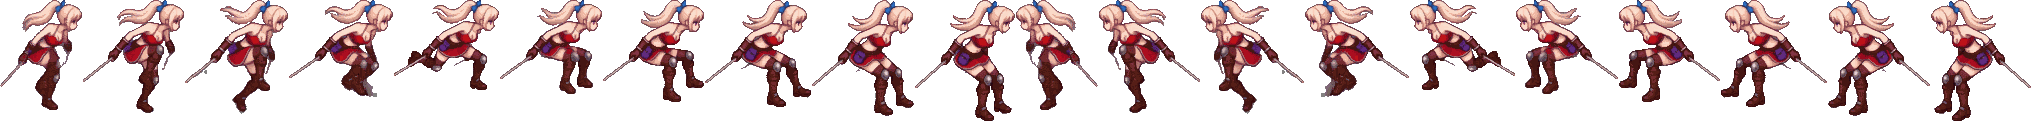
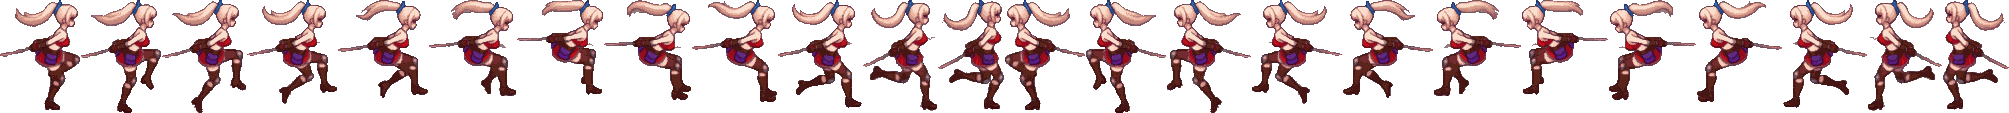
test128: Linette running jump v2 from the hero's own rjump skeleton (run arms kept, higher arc)
Claude-Session: https://claude.ai/code/session_016rTuiBLHccbMGyHtTkdTn7

diff --git a/test128/linette.html b/test128/linette.html
@@ -116,7 +116,7 @@ function draw(){
   const camX=Math.round(P.x-VW/2)+shx,camY=Math.round(P.y-VH*0.55)+shy;
   for(let y=Math.floor(camY/256)*256;y<camY+VH;y+=256)for(let x=Math.floor(camX/256)*256;x<camX+VW;x+=256)ctx.drawImage(TILE,x-camX,y-camY);
   const sx=Math.round(P.x-camX),sy0=Math.round(P.y-camY);let sy=sy0;
-  if(P.st==='jump'){const T=total(clip(P.clip)),rj=P.clip.startsWith('rjump'),u=rj?Math.min(1,P.t/T):Math.min(1,Math.max(0,(P.t-T*0.25)/(T*0.55)));sy-=Math.round(Math.sin(u*Math.PI)*(rj?34:30));}   // rjump frames are all airborne -> arc over the whole clip   // airborne arc in the middle of the clip
+  if(P.st==='jump'){const T=total(clip(P.clip)),rj=P.clip.startsWith('rjump'),u=rj?Math.min(1,Math.max(0,(P.t-4)/(T-10))):Math.min(1,Math.max(0,(P.t-T*0.25)/(T*0.55)));sy-=Math.round(Math.sin(u*Math.PI)*(rj?72:30));}   // rjump: push-off 2 frames, airborne arc (~2/3 of her height, like the hero), landing stride 2 frames   // airborne arc in the middle of the clip
   const drawDummy=D=>{const x=Math.round(D.x-camX),y=Math.round(D.y-camY);ctx.fillStyle='rgba(0,0,0,.22)';ctx.beginPath();ctx.ellipse(x,y,14,4,0,0,7);ctx.fill();
     const w=D.fl>0&&D.fl%2?'#fff':null;ctx.fillStyle=w||'#7a5230';ctx.fillRect(x-3,y-44,6,44);ctx.fillStyle=w||'#a8743f';ctx.fillRect(x-14,y-38,28,6);ctx.beginPath();ctx.arc(x,y-50,9,0,7);ctx.fillStyle=w||'#c9a06a';ctx.fill();
     if(D.fl>0)D.fl--;D.x+=(D.hx-D.x)*0.06;D.y+=(D.hy-D.y)*0.06;
@@ -134,5 +134,5 @@ function draw(){
 }
 let acc=0,last=performance.now();
 function loop(now){acc+=Math.min(100,now-last);last=now;while(acc>=1000/60){step();P.gt=(P.gt||0)+1;acc-=1000/60;}draw();requestAnimationFrame(loop);}
-fetch('assets/anim/linette8.json?v=9').then(r=>r.json()).then(j=>{A=j;return Promise.all(A.sheets.map(p=>new Promise(res=>{const i=new Image();i.onload=()=>res(i);i.src='assets/'+p+'?v=9';})));}).then(ims=>{SH=ims;const ld=src=>new Promise(r=>{const i=new Image();i.onload=()=>r(i);i.src=src;});return Promise.all([ld('assets/anim/hero8_castfx.webp?v=1'),ld('assets/anim/hero8_castfire.webp?v=1')]);}).then(([a,b])=>{FX=a;FIRE=b;start('idle','idle_right');requestAnimationFrame(loop);});
+fetch('assets/anim/linette8.json?v=10').then(r=>r.json()).then(j=>{A=j;return Promise.all(A.sheets.map(p=>new Promise(res=>{const i=new Image();i.onload=()=>res(i);i.src='assets/'+p+'?v=10';})));}).then(ims=>{SH=ims;const ld=src=>new Promise(r=>{const i=new Image();i.onload=()=>r(i);i.src=src;});return Promise.all([ld('assets/anim/hero8_castfx.webp?v=1'),ld('assets/anim/hero8_castfire.webp?v=1')]);}).then(([a,b])=>{FX=a;FIRE=b;start('idle','idle_right');requestAnimationFrame(loop);});
 </script></body></html>
